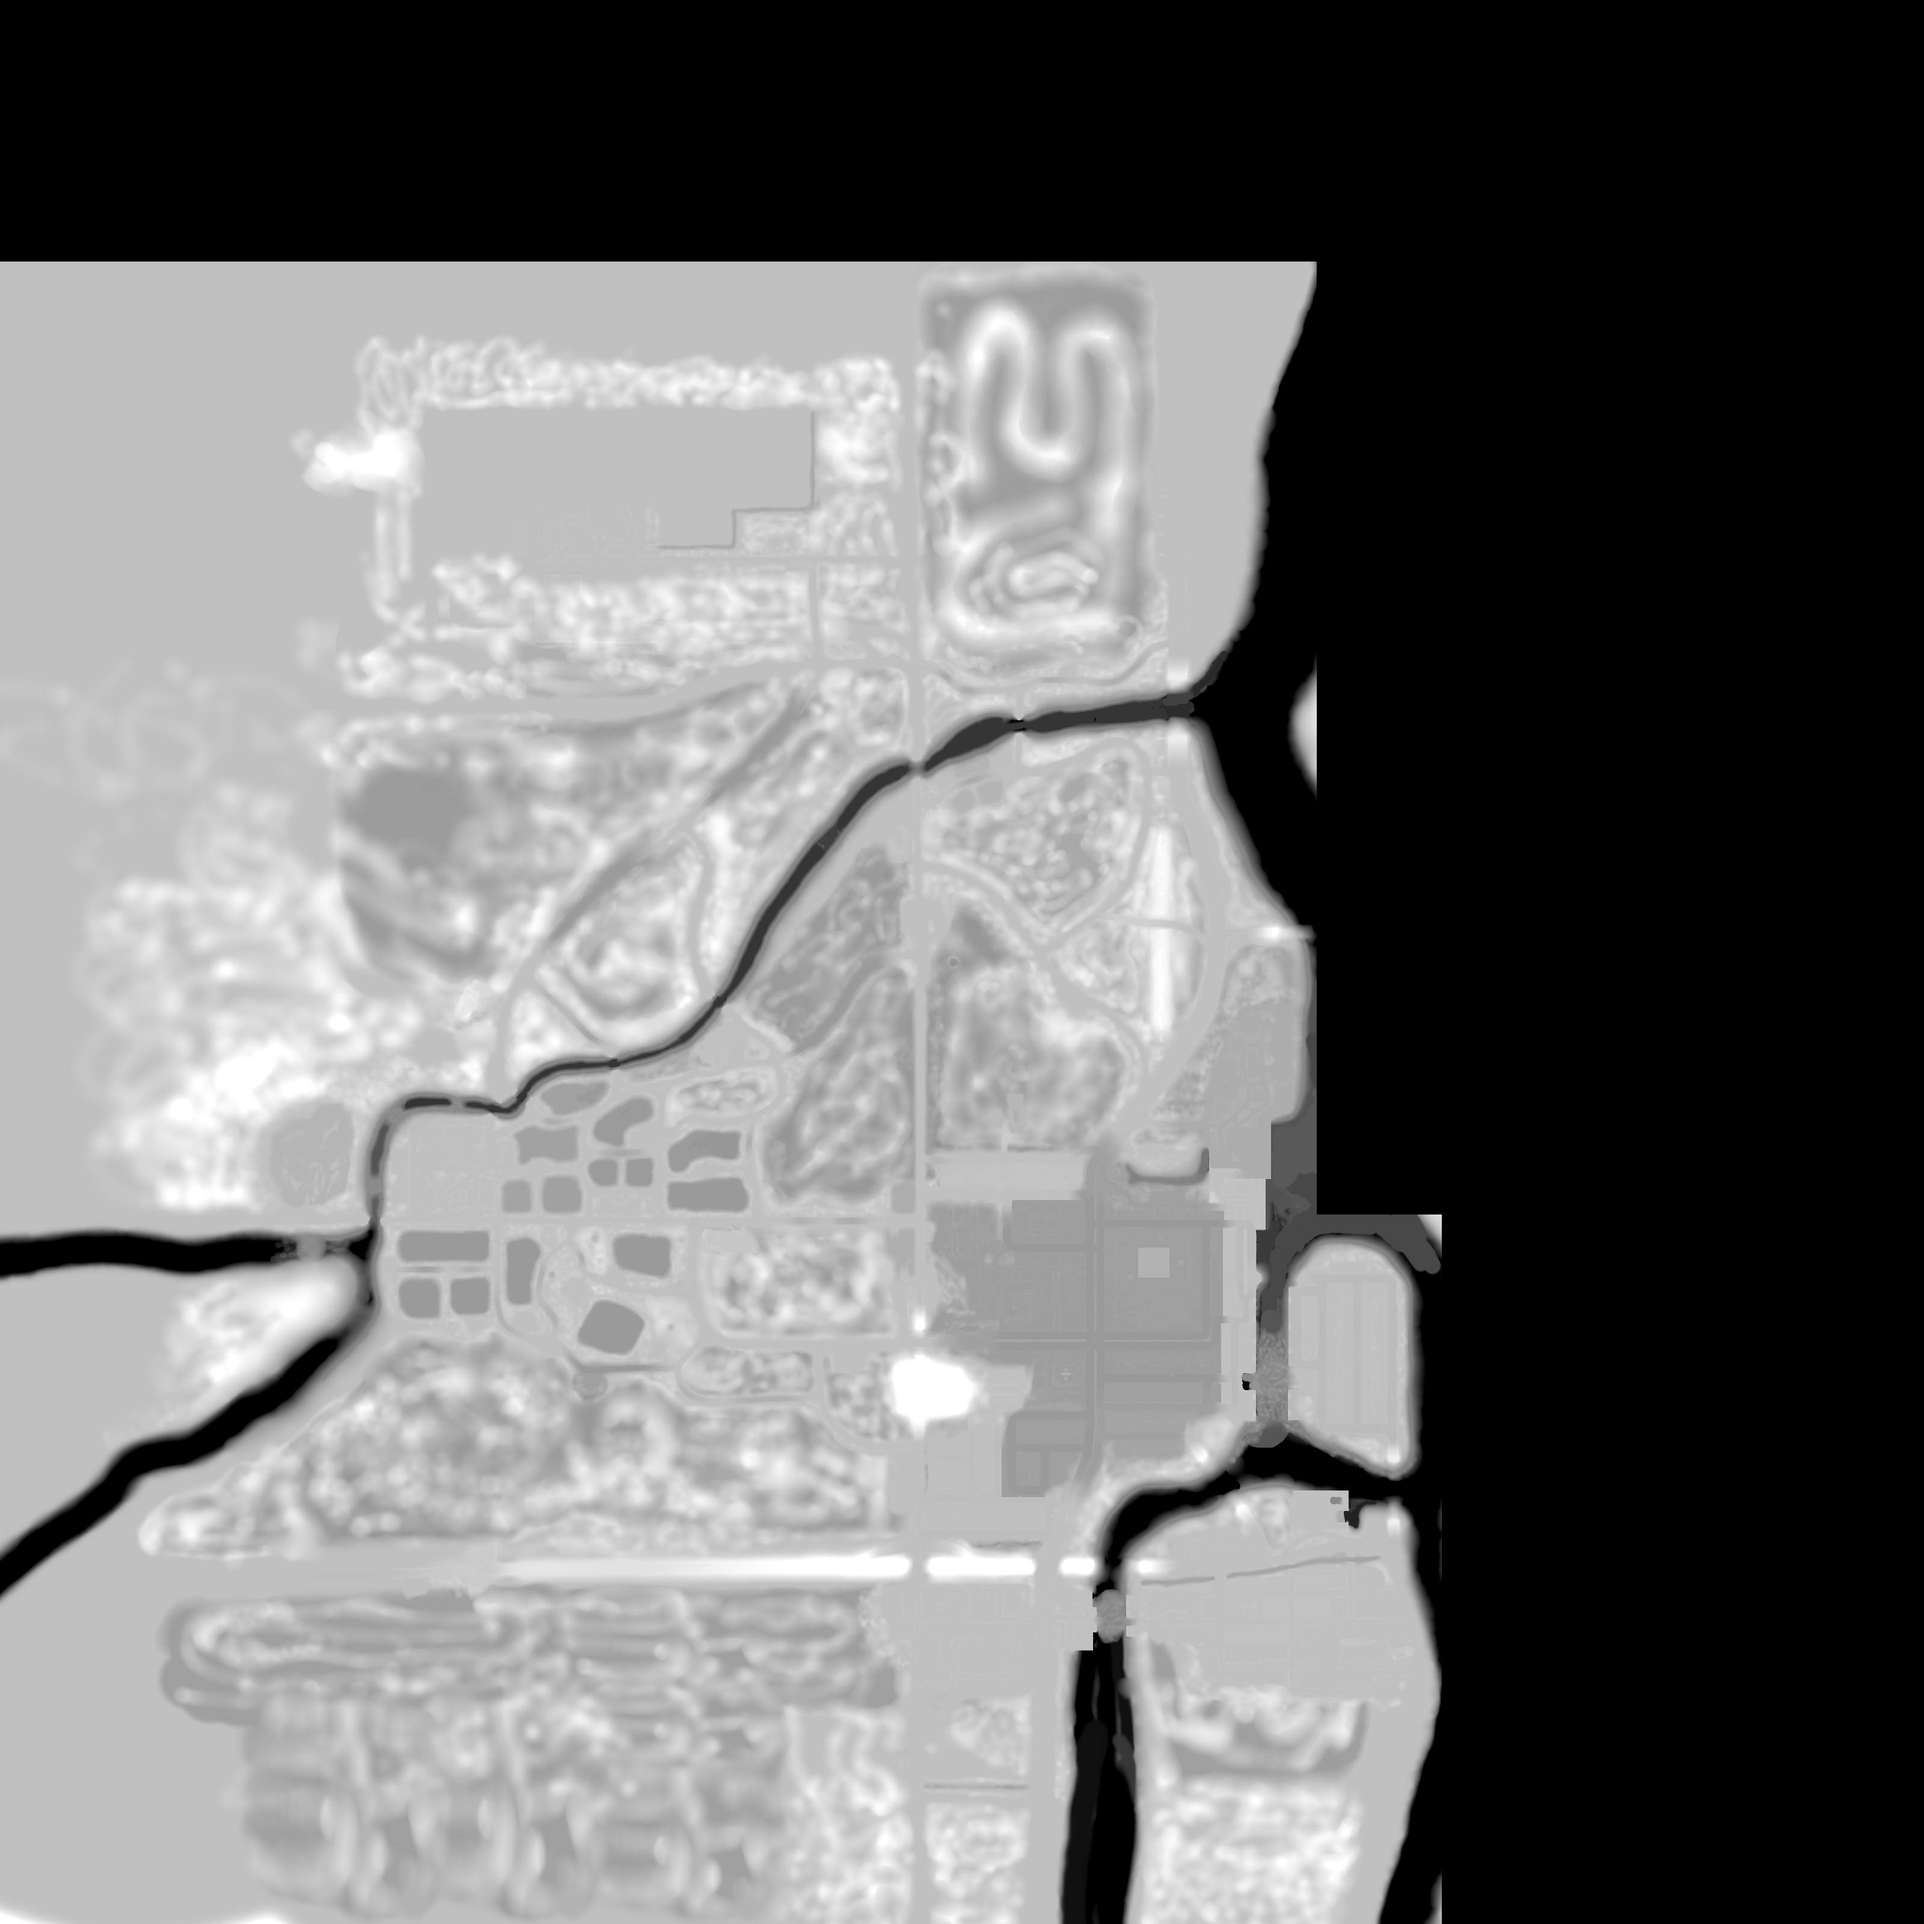
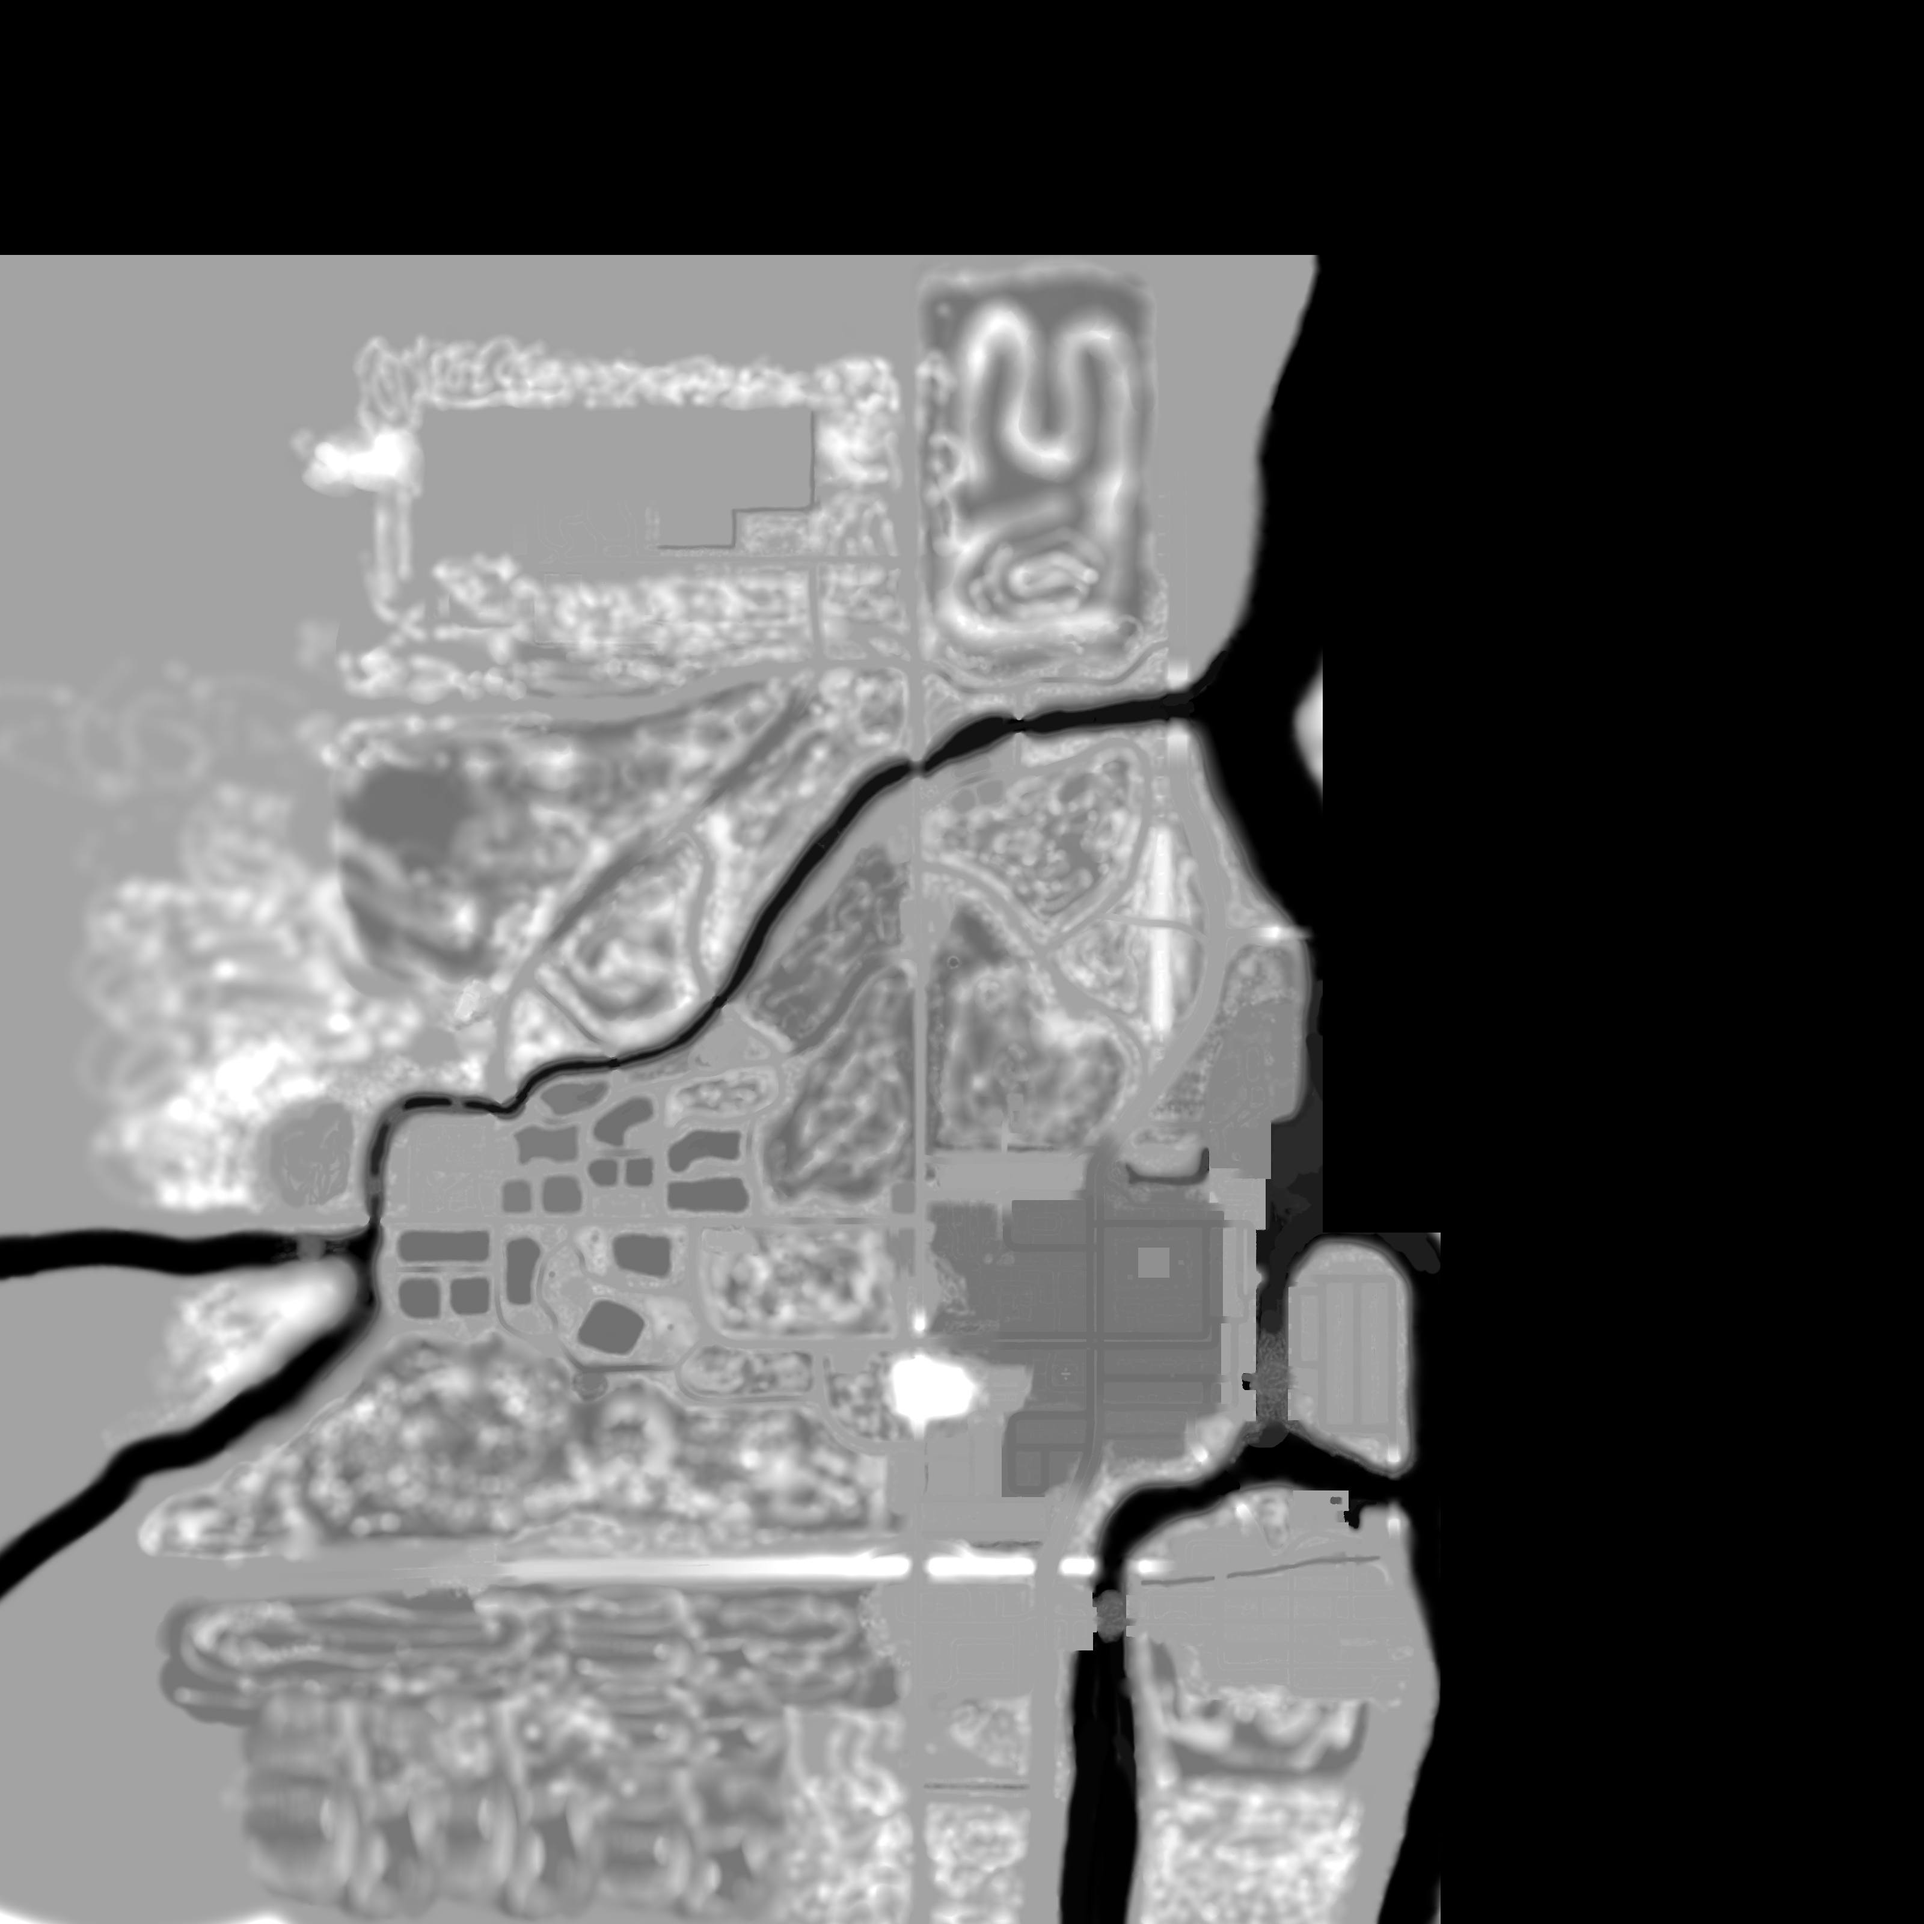
fixed Al Basrah & Narva heightmaps and height calculations (were based on faulty optimization)

diff --git a/public/js/MAPDATA.js b/public/js/MAPDATA.js
@@ -41,7 +41,7 @@
       map: albasrah,
       heightmap: {
         url: "./maps/albasrah/heightmap_optimized.jpg",
-        scale: ((11.73 * 2) * 0.1) / 255,
+        scale: ((24.04 * 5.12) * 0.1) / 255,
       },
       locations: [
         Utils.createLocation("Village", [2000, 760]),
@@ -285,7 +285,7 @@
       map: narva,
       heightmap: {
         url: "./maps/narva/heightmap_optimized.jpg",
-        scale: ((8.02 * 2) * 1.00) / 255,
+        scale: ((8.21 * 5.12) * 1.00) / 255,
       },
       locations: [
         Utils.createLocation("US Main", [570, 215]),
